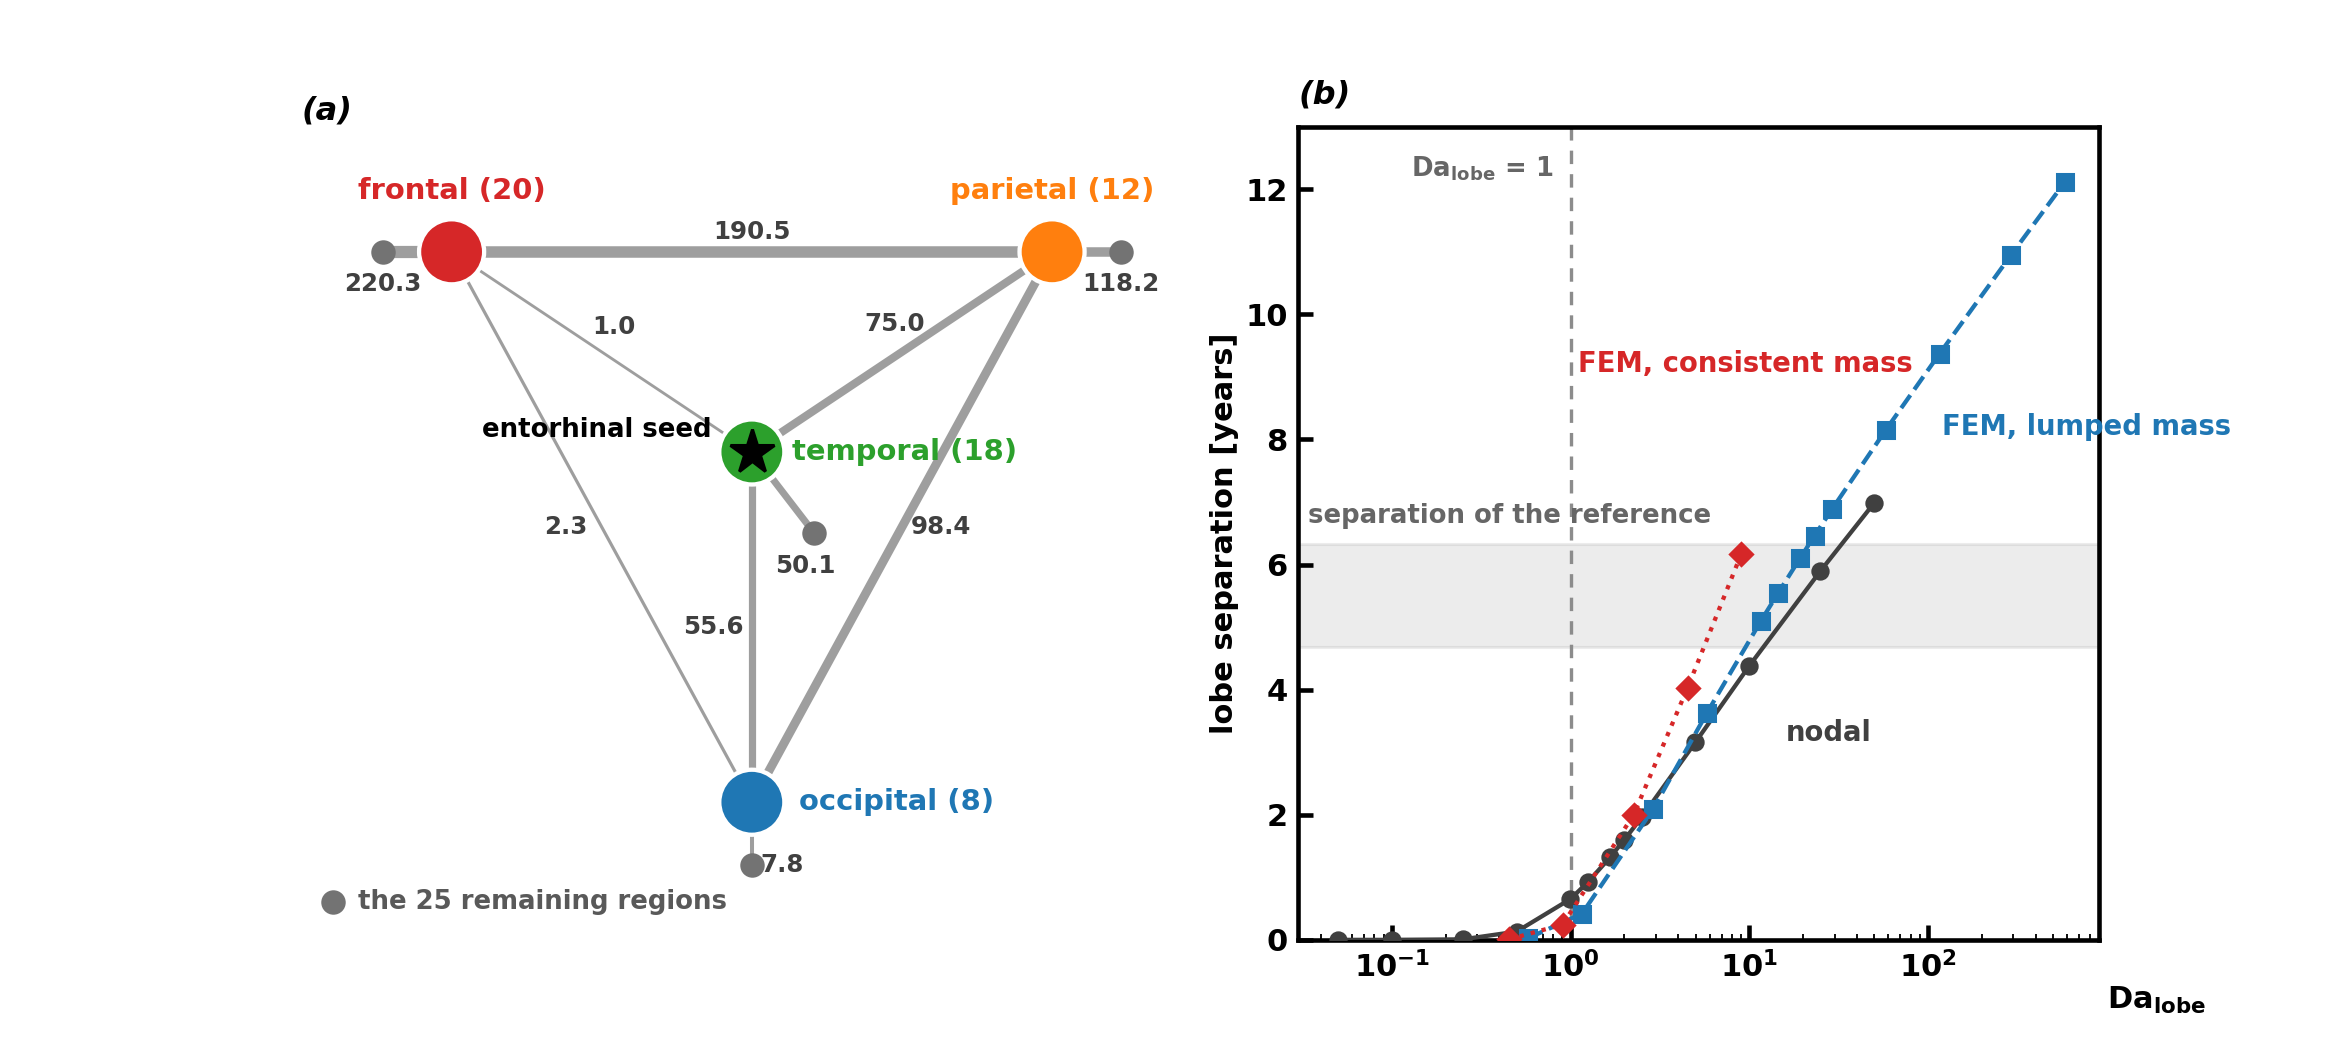
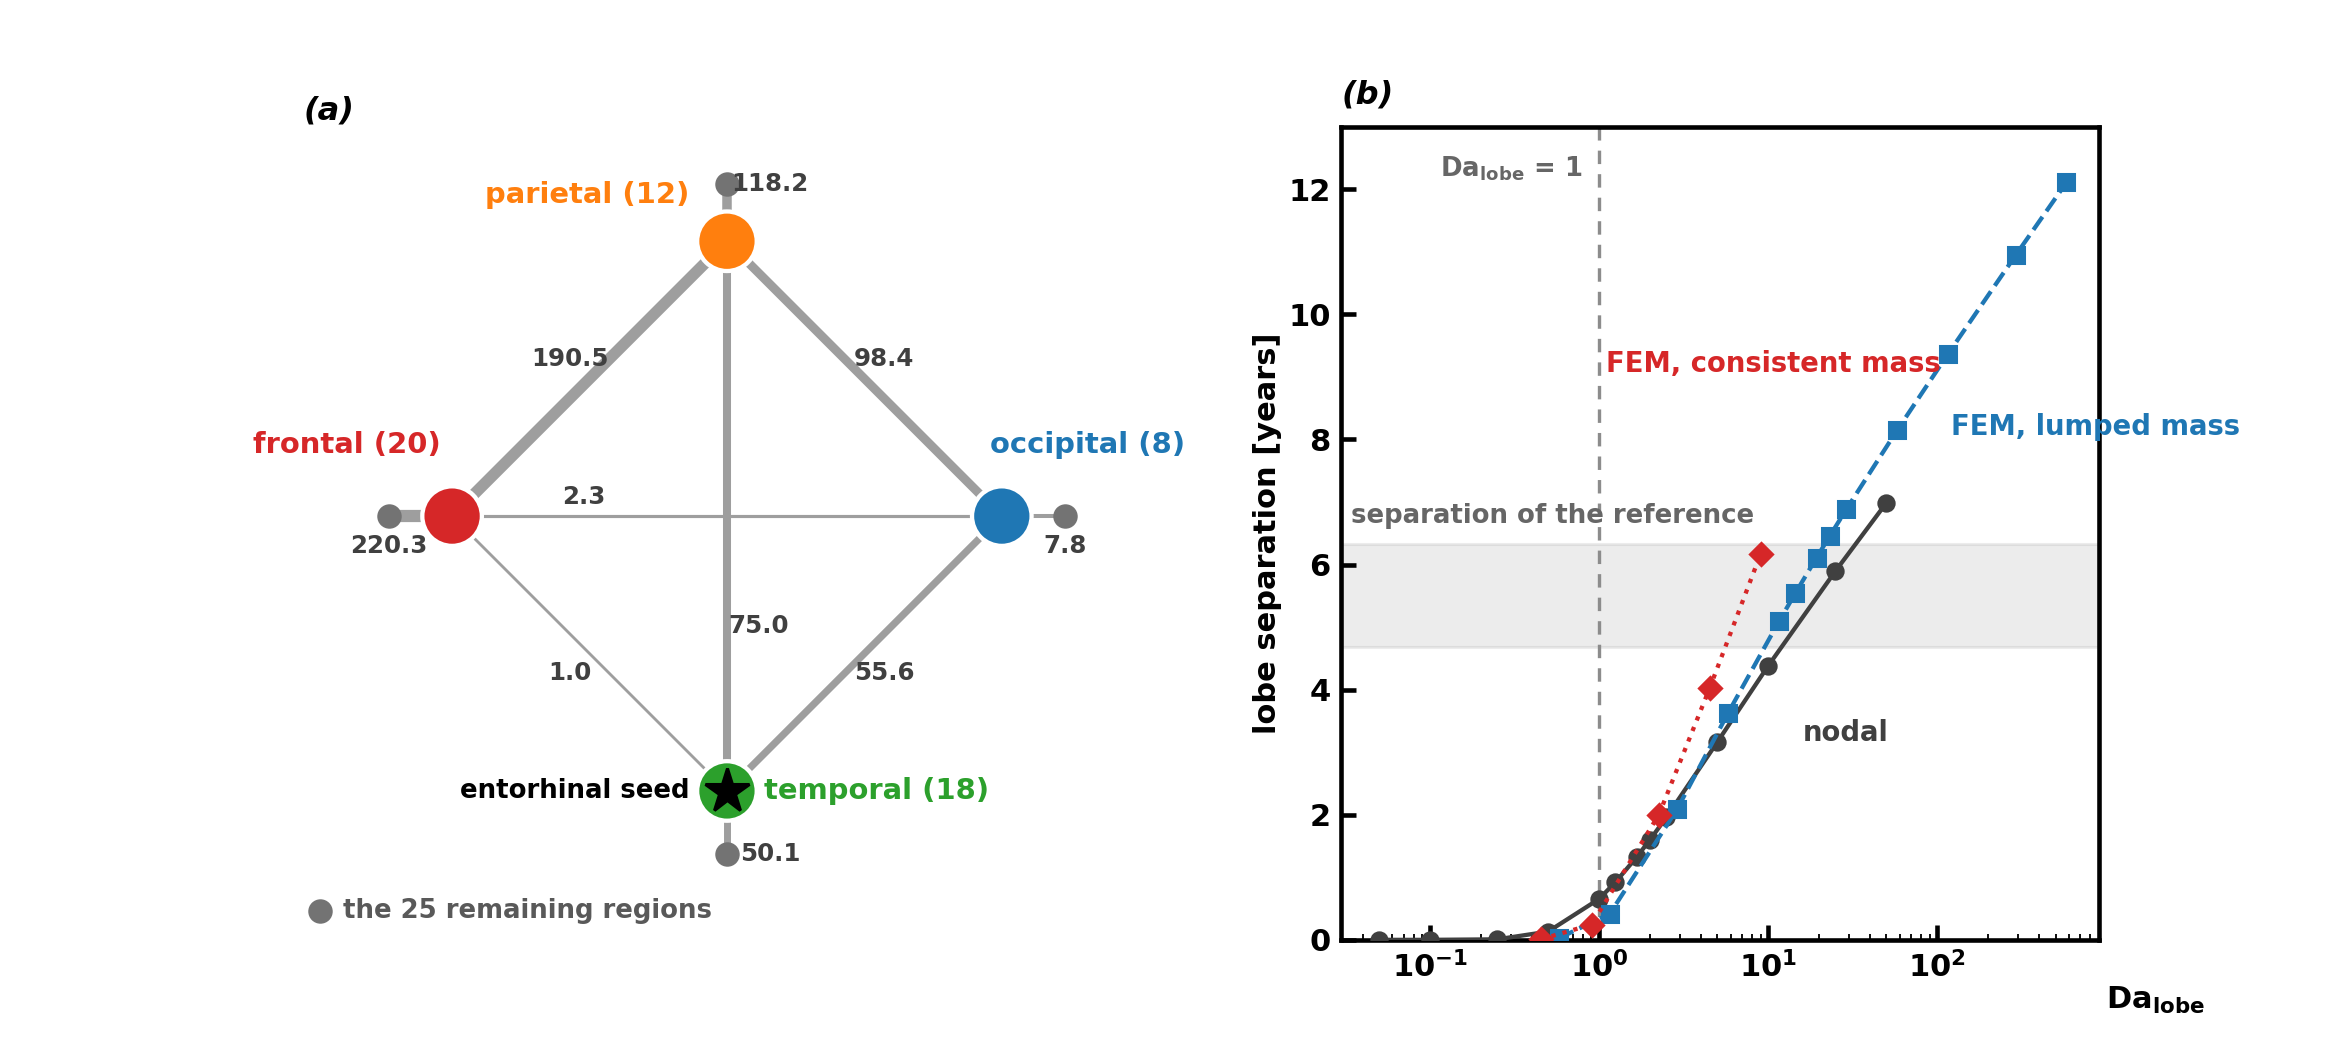
Arrange the lobe graph as a left sagittal diamond

diff --git a/scripts/plot-lobe-connectivity.py b/scripts/plot-lobe-connectivity.py
@@ -5,11 +5,13 @@
 Panel (a) is the connectome compressed over the four cortical lobes of
 Fornari et al., the partition over which every biomarker curve of the chapter
 is averaged: one line per pair of lobes with the total connectivity printed
-on it and the width growing with the square root of the value, the temporal
-lobe at the centre because it holds the entorhinal seed (the star), and a
-short grey stub at every lobe carrying its total connectivity to the 25
-remaining regions (insular, limbic, subcortical and the brainstem). The
-drawing is planar, so nothing crosses. Panel (b) plots the stored lobe
+on it and the width growing with the square root of the value, the lobes
+arranged as in a left sagittal view of the brain, frontal to the left,
+parietal above, occipital to the right and temporal below (the star marking
+the entorhinal seed), and a short grey stub at every lobe carrying its total
+connectivity to the 25 remaining regions (insular, limbic, subcortical and
+the brainstem). Only the frontal-occipital and parietal-temporal lines
+cross, at the centre, without sharing a vertex. Panel (b) plots the stored lobe
 separations of the three models against the lobe-scale Damkohler number
 computed from this compressed graph, with the line at one where the
 separation sets in. All sums come from the stored edge list and all spreads
@@ -39,26 +41,26 @@ FIEDLER = 0.772254
 REFERENCE_SPREAD_YEARS = 5.5
 BENCH = Path("benchmarks/23_fisher_kolmogorov_diffusion_scaling/results")
 POSITION = {
-    "frontal": (0.02, 0.90),
-    "parietal": (0.98, 0.90),
-    "occipital": (0.50, 0.02),
-    "temporal": (0.50, 0.58),
+    "frontal": (0.02, 0.50),
+    "parietal": (0.50, 0.98),
+    "occipital": (0.98, 0.50),
+    "temporal": (0.50, 0.02),
 }
 # Lobe-to-lobe labels: fraction along the first-to-second endpoint and shift.
 LABEL_POS = {
-    ("frontal", "parietal"): (0.50, 0.0, 0.032),
-    ("occipital", "parietal"): (0.50, 0.062, 0.0),
-    ("frontal", "occipital"): (0.50, -0.058, 0.0),
-    ("frontal", "temporal"): (0.50, 0.020, 0.040),
-    ("parietal", "temporal"): (0.50, -0.012, 0.044),
-    ("occipital", "temporal"): (0.50, -0.062, 0.0),
+    ("frontal", "parietal"): (0.50, -0.034, 0.034),
+    ("occipital", "parietal"): (0.50, 0.034, 0.034),
+    ("frontal", "occipital"): (0.24, 0.0, 0.034),
+    ("frontal", "temporal"): (0.50, -0.034, -0.034),
+    ("parietal", "temporal"): (0.70, 0.056, 0.0),
+    ("occipital", "temporal"): (0.50, 0.034, -0.034),
 }
 # Grey stubs towards the 25 remaining regions: direction and label offset.
 STUB = {
     "frontal": ((-0.11, 0.0), (0.0, -0.052)),
-    "parietal": ((0.11, 0.0), (0.0, -0.052)),
-    "occipital": ((0.0, -0.10), (0.048, 0.0)),
-    "temporal": ((0.10, -0.13), (-0.015, -0.052)),
+    "parietal": ((0.0, 0.10), (0.075, 0.0)),
+    "occipital": ((0.11, 0.0), (0.0, -0.052)),
+    "temporal": ((0.0, -0.11), (0.075, 0.0)),
 }
 
 
@@ -77,8 +79,8 @@ def read(path):
 
 def draw_graph(axis, graph):
     axis.set_aspect("equal")
-    axis.set_xlim(-0.22, 1.22)
-    axis.set_ylim(-0.2, 1.1)
+    axis.set_xlim(-0.24, 1.24)
+    axis.set_ylim(-0.24, 1.18)
     axis.axis("off")
     heaviest = max(graph.coupling.values())
 
@@ -109,30 +111,30 @@ def draw_graph(axis, graph):
         colour = figure_style.LOBE_COLOUR[lobe]
         axis.add_patch(Circle((x, y), 0.052, facecolor=colour,
                               edgecolor="white", linewidth=1.4, zorder=3))
-    axis.text(0.02, 0.975, f"frontal ({graph.counts['frontal']})",
+    axis.text(0.0, 0.60, f"frontal ({graph.counts['frontal']})",
               fontsize=9.5, fontweight="bold",
-              color=figure_style.LOBE_COLOUR["frontal"], ha="center",
+              color=figure_style.LOBE_COLOUR["frontal"], ha="right",
               va="bottom")
-    axis.text(0.98, 0.975, f"parietal ({graph.counts['parietal']})",
+    axis.text(0.435, 1.06, f"parietal ({graph.counts['parietal']})",
               fontsize=9.5, fontweight="bold",
-              color=figure_style.LOBE_COLOUR["parietal"], ha="center",
-              va="bottom")
-    axis.text(0.575, 0.02, f"occipital ({graph.counts['occipital']})",
+              color=figure_style.LOBE_COLOUR["parietal"], ha="right",
+              va="center")
+    axis.text(0.96, 0.60, f"occipital ({graph.counts['occipital']})",
               fontsize=9.5, fontweight="bold",
               color=figure_style.LOBE_COLOUR["occipital"], ha="left",
-              va="center")
-    axis.text(0.565, 0.58, f"temporal ({graph.counts['temporal']})",
+              va="bottom")
+    axis.text(0.565, 0.02, f"temporal ({graph.counts['temporal']})",
               fontsize=9.5, fontweight="bold",
               color=figure_style.LOBE_COLOUR["temporal"], ha="left",
               va="center")
     sx, sy = POSITION["temporal"]
     axis.plot([sx], [sy], marker="*", color="black", markersize=15,
               linestyle="none", zorder=6)
-    axis.text(0.435, 0.615, "entorhinal seed", fontsize=8.5,
+    axis.text(0.435, 0.02, "entorhinal seed", fontsize=8.5,
               fontweight="bold", color="black", ha="right", va="center")
-    axis.plot([-0.17], [-0.14], marker="o", markersize=7, color="0.45",
+    axis.plot([-0.21], [-0.19], marker="o", markersize=7, color="0.45",
               linestyle="none")
-    axis.text(-0.13, -0.14, f"the {graph.counts['other']} remaining regions",
+    axis.text(-0.17, -0.19, f"the {graph.counts['other']} remaining regions",
               fontsize=8.5, fontweight="bold", color="0.35", ha="left",
               va="center")
 
@@ -190,7 +192,7 @@ def main():
     graph = LobeGraph()
     figure_style.apply()
     figure = plt.figure(figsize=(10.6, 4.8))
-    grid = figure.add_gridspec(1, 2, width_ratios=[1.15, 1.0], wspace=0.10)
+    grid = figure.add_gridspec(1, 2, width_ratios=[1.15, 1.0], wspace=0.22)
     left = figure.add_subplot(grid[0, 0])
     draw_graph(left, graph)
     left.text(0.0, 1.0, "(a)", transform=left.transAxes, fontsize=10.5,

diff --git a/report/chapter4_connectome.tex b/report/chapter4_connectome.tex
@@ -526,7 +526,7 @@ The total connectivity of a lobe, however, is not sufficient to determine its ac
 \begin{figure}[htbp]
 \centering
 \includegraphics[width=\textwidth]{images/lobe_connectivity.pdf}
-\caption{\footnotesize (a) The connectome compressed over the four lobes of the biomarker (Eq.\eqref{eq:biomarker}): one line per pair of lobes with the total connectivity printed on it and the width growing with the square root of the value, the temporal lobe at the centre because it holds the entorhinal seed (star) and at every lobe a grey stub carrying its total connectivity to the $25$ remaining regions (insular, limbic, subcortical and the brainstem); the region count of each lobe is in parentheses. (b) Lobe separation against $\mathrm{Da}_{\mathrm{lobe}}$ for the three models, the consistent mass over the scalings within its validity boundary (Section~\ref{sec:boundary}); the dashed line marks $\mathrm{Da}_{\mathrm{lobe}} = 1$, below which every model keeps the lobes together and the grey band is the separation of the reference, $5.5$ years read from figure 7 of~\cite{fornari2019prion} with a margin of $15\%$. The four lobes are the partition of~\cite{fornari2019prion} used by every biomarker curve of this chapter; the seven groups of Figure~\ref{fig:connectogram} are a different partition of the same regions, so the two figures cannot be compared cell by cell. The regions are assigned to the lobes by their FreeSurfer names, carried by the Budapest file, through the function \texttt{classify} of the connectome test of our library, which follows the standard Desikan--Killiany anatomy of the four cortical lobes used by~\cite{fornari2019prion}.}
+\caption{\footnotesize (a) The connectome compressed over the four lobes of the biomarker (Eq.\eqref{eq:biomarker}): one line per pair of lobes with the total connectivity printed on it and the width growing with the square root of the value, the lobes arranged as in a left sagittal view of the brain, the frontal lobe to the left, the parietal above, the occipital to the right and the temporal, which holds the entorhinal seed (star), below; only the frontal-occipital and parietal-temporal lines cross, at the centre, without sharing a vertex. At every lobe a grey stub carries its total connectivity to the $25$ remaining regions (insular, limbic, subcortical and the brainstem); the region count of each lobe is in parentheses. (b) Lobe separation against $\mathrm{Da}_{\mathrm{lobe}}$ for the three models, the consistent mass over the scalings within its validity boundary (Section~\ref{sec:boundary}); the dashed line marks $\mathrm{Da}_{\mathrm{lobe}} = 1$, below which every model keeps the lobes together and the grey band is the separation of the reference, $5.5$ years read from figure 7 of~\cite{fornari2019prion} with a margin of $15\%$. The four lobes are the partition of~\cite{fornari2019prion} used by every biomarker curve of this chapter; the seven groups of Figure~\ref{fig:connectogram} are a different partition of the same regions, so the two figures cannot be compared cell by cell. The regions are assigned to the lobes by their FreeSurfer names, carried by the Budapest file, through the function \texttt{classify} of the connectome test of our library, which follows the standard Desikan--Killiany anatomy of the four cortical lobes used by~\cite{fornari2019prion}.}
 \label{fig:lobegraph}
 \end{figure}
 
